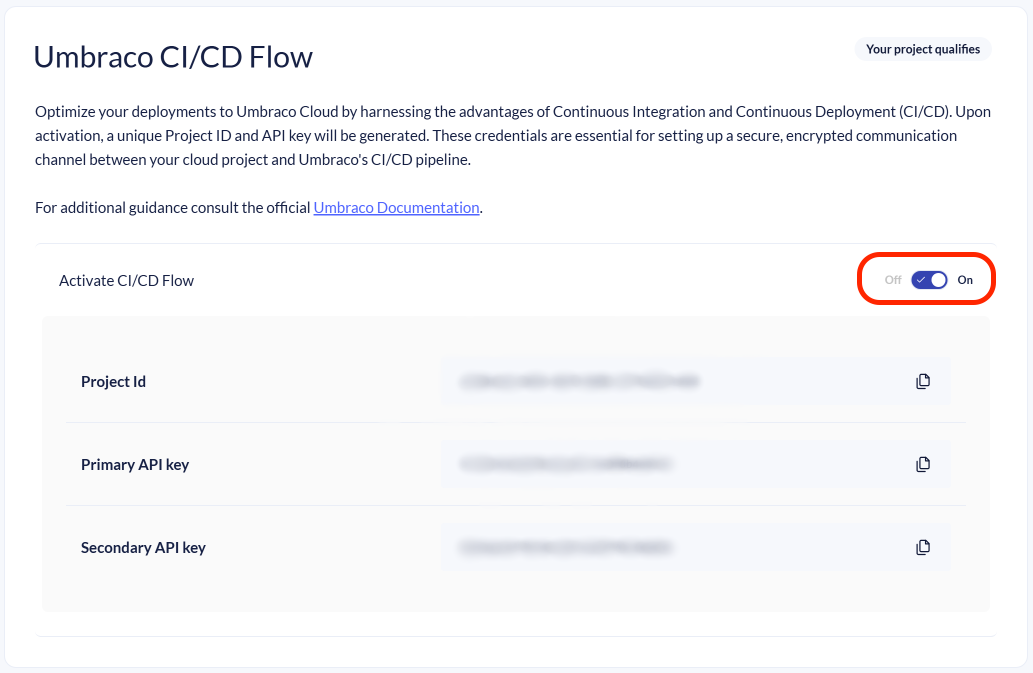
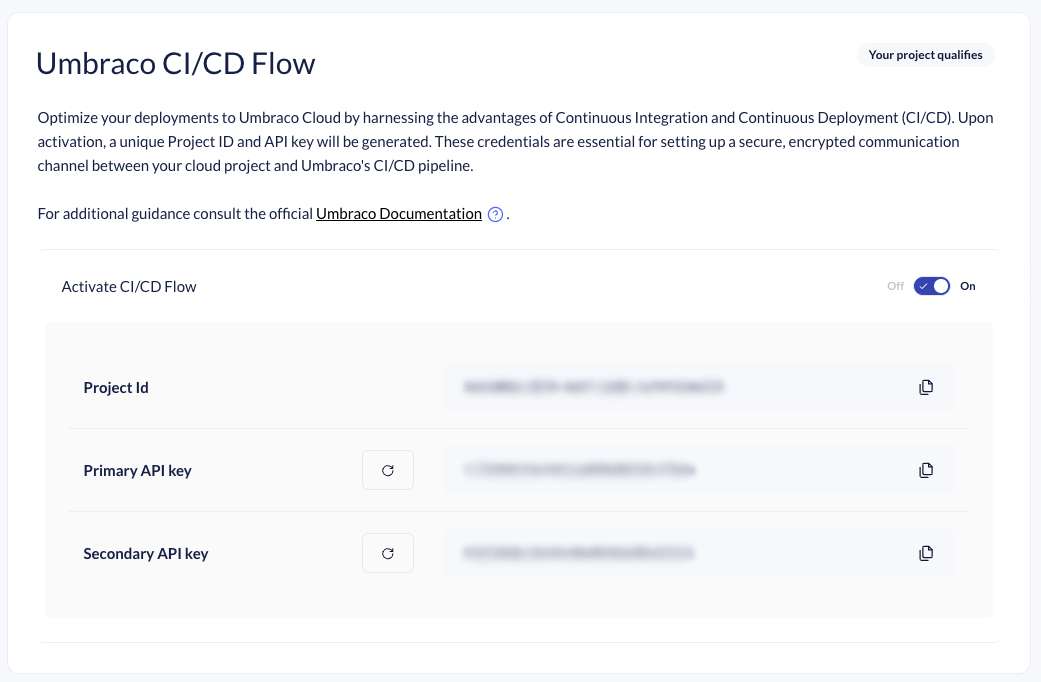
Update ui photos

diff --git a/umbraco-cloud/build-and-customize-your-solution/handle-deployments-and-environments/umbraco-cicd/samplecicdpipeline/README.md b/umbraco-cloud/build-and-customize-your-solution/handle-deployments-and-environments/umbraco-cicd/samplecicdpipeline/README.md
@@ -51,7 +51,7 @@ To get started with API interactions, you'll need to obtain your Project ID and 
 2. Go to `Configuration` -> `CI/CD Flow`. 
 3. Toggle "Activate CI/CD Flow" to enable the feature.
 
-<figure><img src="../../../../.gitbook/assets/cicd-project-api-keys.png" alt=""><figcaption><p>Enabling Umbraco CI/CD Flow.</p></figcaption></figure>
+<figure><img src="../../../../.gitbook/assets/cicd-project-api-keys-activate-highlight.png" alt=""><figcaption><p>Enabling Umbraco CI/CD Flow.</p></figcaption></figure>
 
 The box will expand to show your Project Id and two API keys. You can use either key to interact with the APIs.
 

diff --git a/umbraco-cloud/build-and-customize-your-solution/handle-deployments-and-environments/umbraco-cicd/umbraco-cloud-api.md b/umbraco-cloud/build-and-customize-your-solution/handle-deployments-and-environments/umbraco-cicd/umbraco-cloud-api.md
@@ -46,7 +46,7 @@ You will find relevant examples using `HTTP Request Syntax` in the sections belo
 
 To authenticate with the Umbraco Cloud API, you'll need your Project ID and API Key. These credentials can be found under **Configuration > CI/CD Flow** in the Umbraco Cloud portal.
 
-![Umbraco CI/CD Flow](../../../.gitbook/assets/Advanced-Section.png)
+![Umbraco CI/CD Flow](../../../.gitbook/assets/cicd-project-api-keys.png)
 
 The two elements you need for the authentication are:
 
